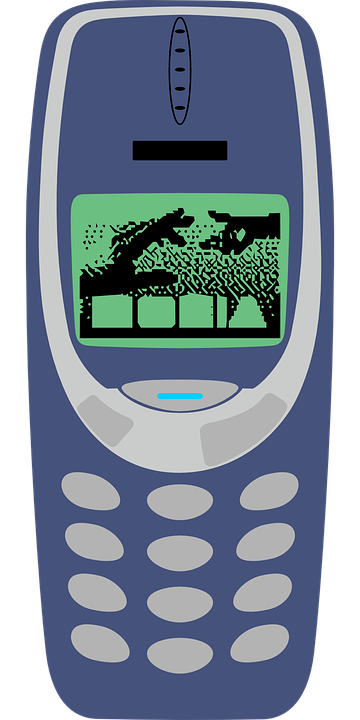
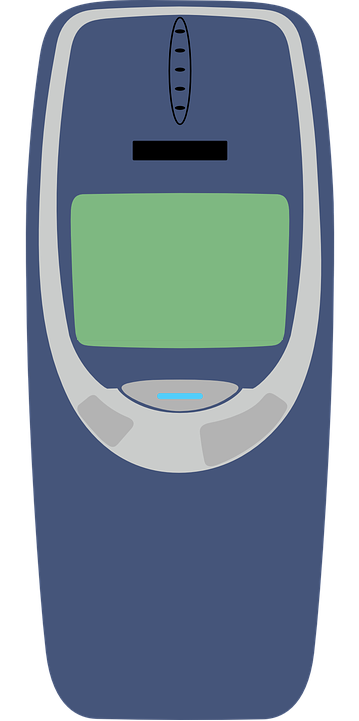
Nokia Interface created, add initial logic for getting message

diff --git a/accenture-frontend/src/component/Nokia.js b/accenture-frontend/src/component/Nokia.js
@@ -1,0 +1,46 @@
+import React, { useState, useCallback } from 'react'
+import logo from '../smartphone.png';
+
+
+export default function Nokia() {
+
+  const [message, setMessage] = useState('');
+  const [convertedMsg, setConvertedMsg] = useState('');
+
+  const getInput = useCallback((input) => {
+    setMessage(`${message}${input}`);
+  }, []);
+
+  return (
+    <div className="Wrapper">
+      <img src={logo} className="Nokia" alt="logo" />
+      <div className="Screen">
+        <p className="Input">Input: {message}</p>
+        Message: {convertedMsg}
+      </div>
+      <button className="Enter">Enter</button>
+      <div className="Container">
+        <div className="Row">
+          <button onClick={() => getInput('1')}>1</button>
+          <button onClick={() => getInput('2')}>2 <span>[abc]</span></button>
+          <button onClick={() => getInput('3')}>3 <span>[def]</span></button>
+        </div>
+        <div className="Row">
+          <button onClick={() => getInput('4')}>4 <span>[ghi]</span></button>
+          <button onClick={() => getInput('5')}>5 <span>[jkl]</span></button>
+          <button onClick={() => getInput('6')}>6 <span>[mno]</span></button>
+        </div>
+        <div className="Row">
+          <button onClick={() => getInput('7')}>7 <span>[pqrs</span>]</button>
+          <button onClick={() => getInput('8')}>8 <span>[tuv]</span></button>
+          <button onClick={() => getInput('9')}>9 <span>[wxyx</span>]</button>
+        </div>
+        <div className="Row">
+          <button onClick={() => getInput('*')}>* [+]</button>
+          <button onClick={() => getInput('0')}>0 <span>[ _ ]</span></button>
+          <button onClick={() => getInput('_')}>H <span>[#]</span></button>
+        </div>
+      </div>
+    </div>
+  )
+}

diff --git a/accenture-frontend/src/App.css b/accenture-frontend/src/App.css
@@ -16,12 +16,69 @@
   justify-content: center;
   font-size: calc(10px + 2vmin);
   color: white;
-  color:  #9933ff;
 
 }
 
-.App-link {
-  color: #61dafb;
+.Wrapper {
+  position: relative;
+}
+
+.Nokia {
+  position: relative;
+}
+
+.Screen {
+  position: absolute;
+  top: 193px;
+  left: 70px;
+  width: 220px;
+  height: 155px;
+  border-radius: 10px;
+  background: #69be80;
+}
+
+.Input {}
+
+.Enter {
+  position: absolute;
+  top: 370px;
+  left: 120px;
+  width: 120px;
+  height: 50px;
+  border: 4px solid #46577b;
+  box-sizing: border-box;
+  border-radius: 40px 40px 90px 90px;
+  background-color: #01d0fe;
+  color:#46577b;
+  padding-top: 10px;
+  font-weight: bold;
+  padding: 0;
+}
+
+.Container {
+  position: absolute;
+  top: 475px;
+  left: 45px;
+  background: #46577b;
+  border-radius: 40px;
+  padding-bottom: 50px;
+}
+
+.Row {
+  display: flex;
+  justify-content: space-between;
+  padding: 2px;
+}
+
+.Row button {
+  margin: 10px;
+  width: 70px;
+  border: none;
+  padding: 5px;
+  background-color: #b3b3b3;
+  border-radius: 20px;
+  font-weight: bold;
+  font-size: 14px;
 }
 
 @keyframes App-logo-spin {

diff --git a/accenture-frontend/src/App.js b/accenture-frontend/src/App.js
@@ -1,15 +1,12 @@
 import React from 'react';
-import logo from './smartphone.png';
+import Nokia from './component/Nokia';
 import './App.css';
 
 function App() {
   return (
     <div className="App">
       <header className="App-header">
-        <img src={logo} className="App-logo" alt="logo" />
-        <p>
-          Desafio Accenture >
-        </p>   
+        <Nokia />
       </header>
     </div>
   );
